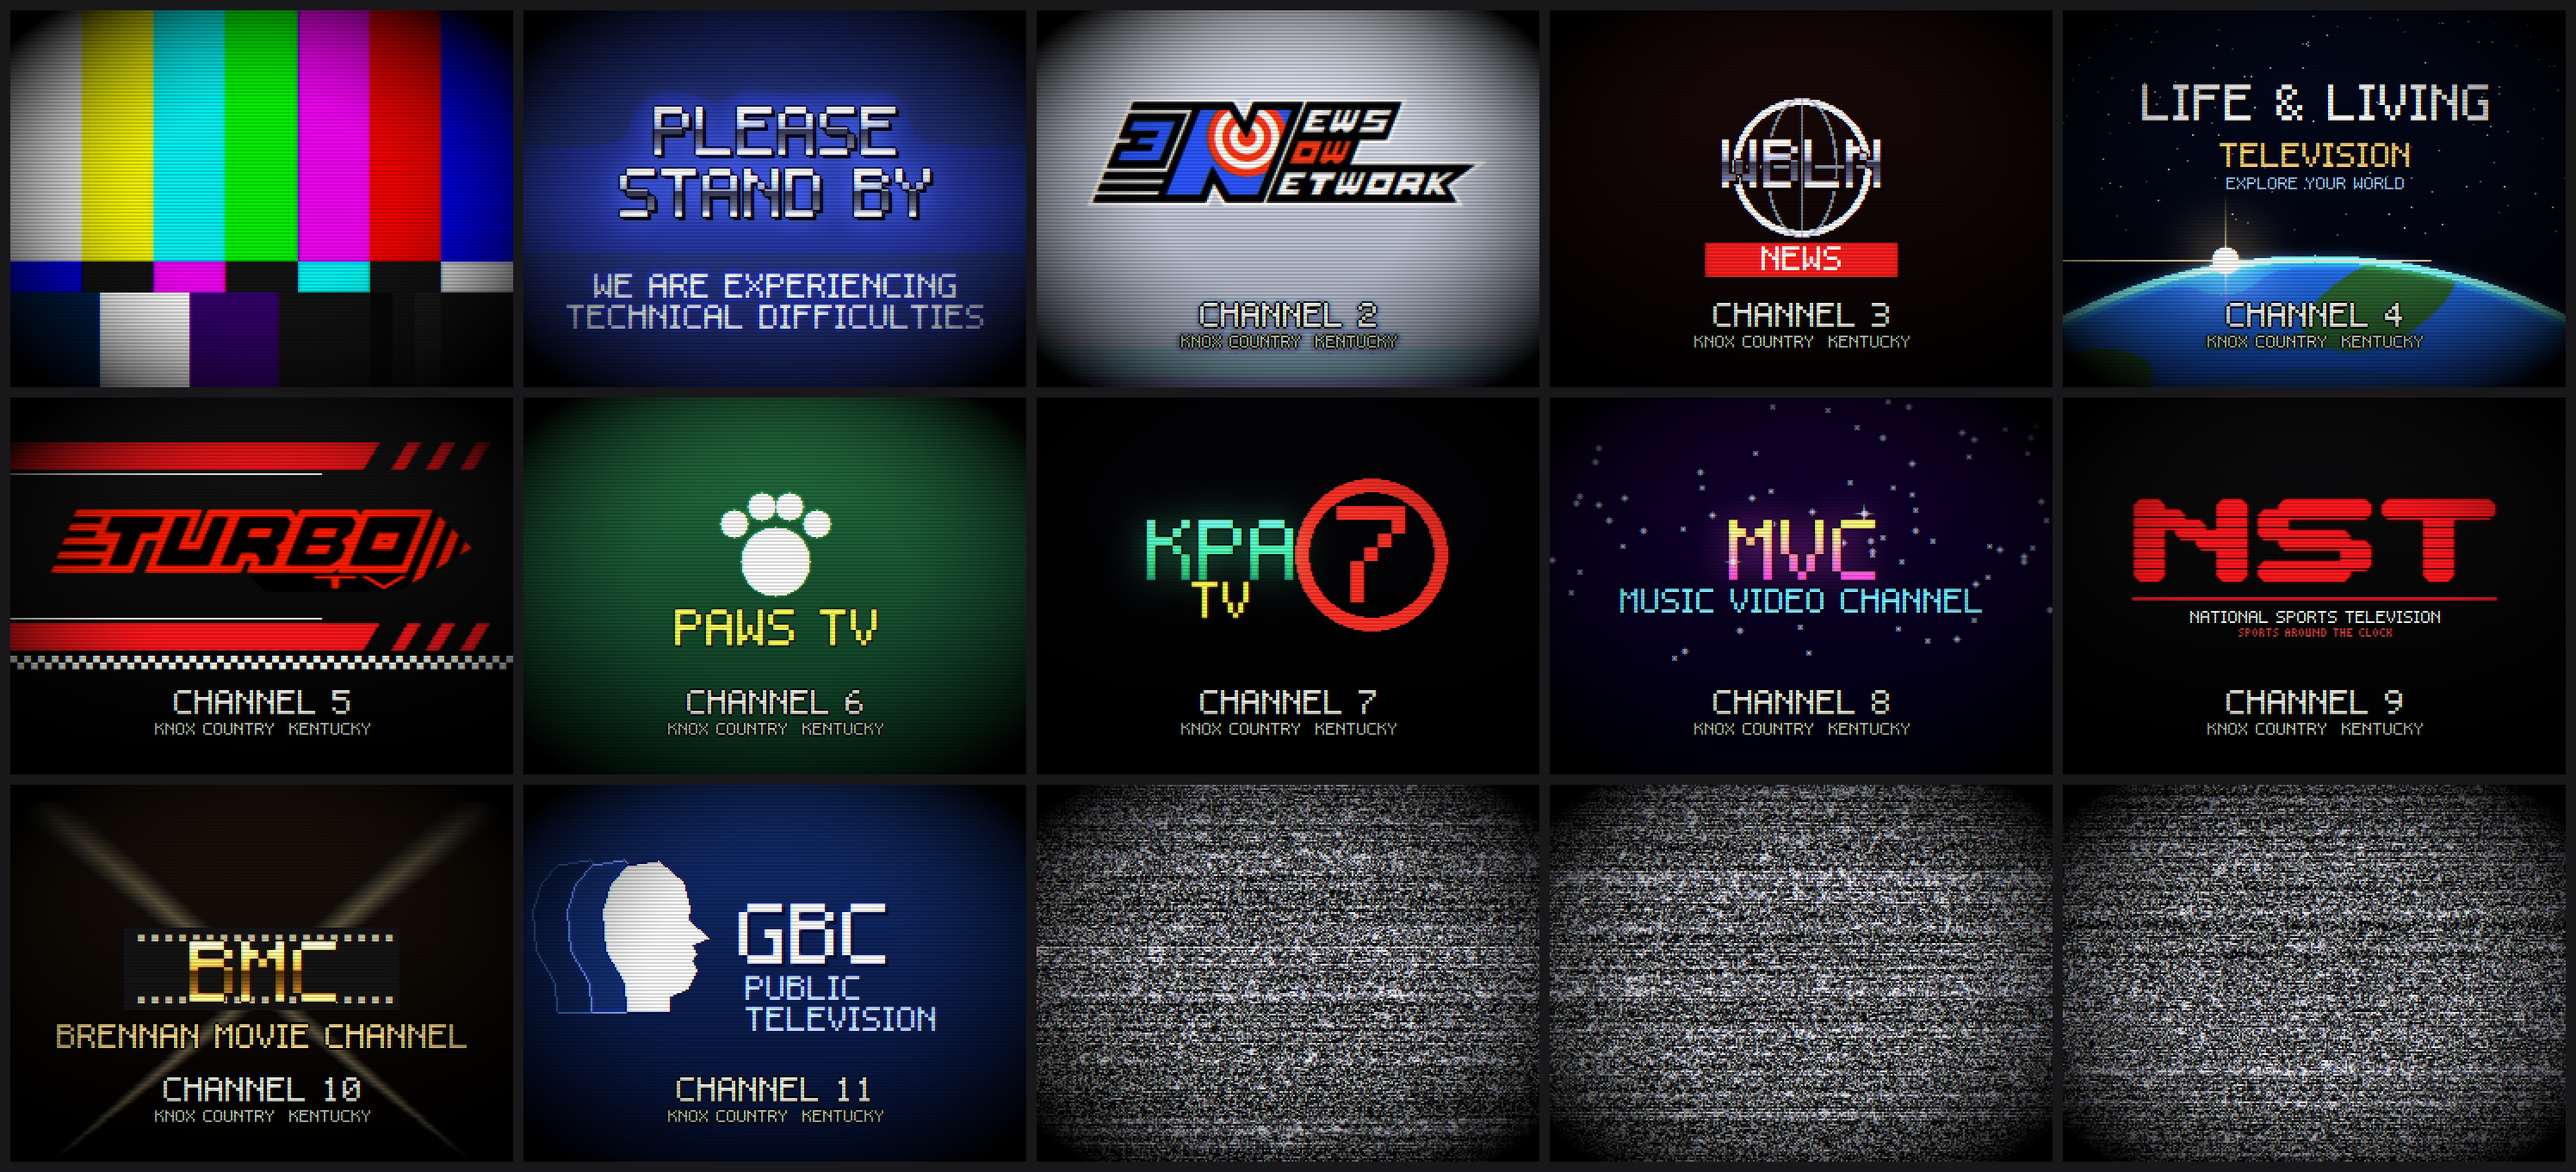
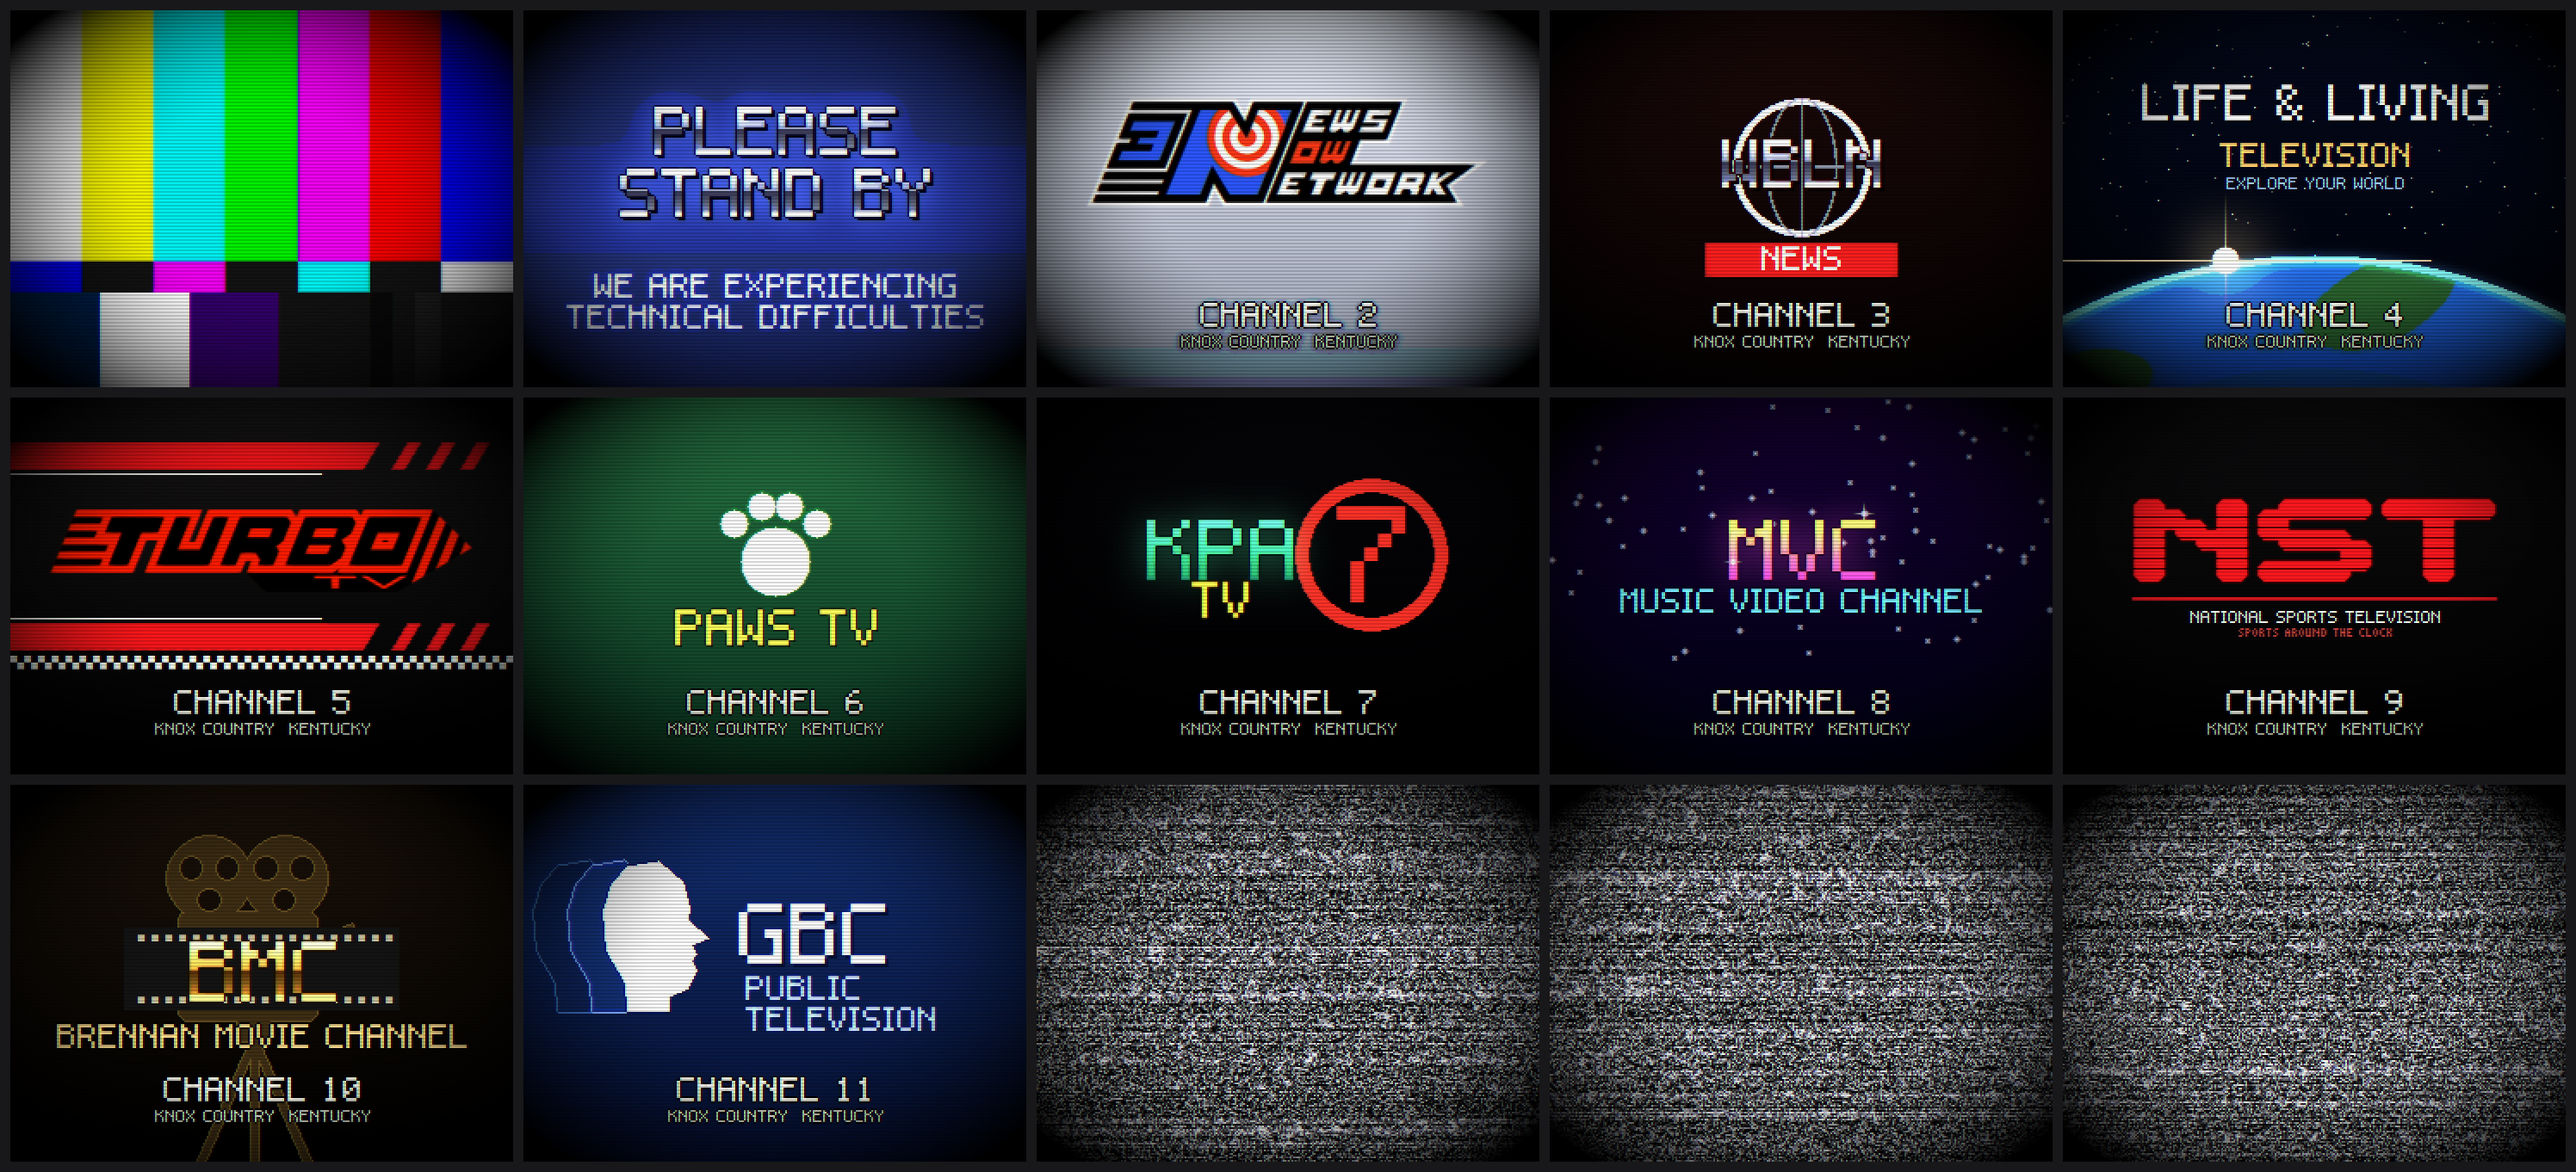
Design: Brennan Movie Channel card with an old film camera
Director: an old film camera, not crossing searchlights, behind the name. A dim gold
silhouette: two reels with their spokes, the box, the lens hood, the tripod's head
and legs; the gold BMC on its film strip in front.

Claude-Session: https://claude.ai/code/session_015Lv8fXDH1kuxg46sEw6iLh

diff --git a/ZeDUI/tools/physpx/offair.py b/ZeDUI/tools/physpx/offair.py
@@ -346,16 +346,28 @@ def signoff(cid, w, h):
         text(a, "SPORTS AROUND THE CLOCK", cx, y0 + wide.shape[0] + 4 * s + 10, 1, (200, 60, 60), font="35" if w < 330 else "57")
     elif cid == "bmc":
         a = card_frame(w, h, (30, 20, 10), (0, 0, 0))
-        for side in (-1, 1):                                                                # two searchlights crossing
-            bx0 = cx - side * int(w * 0.42); by0 = h
-            for t in np.linspace(0, 1, 400):
-                x = bx0 + (cx + side * 18 * s - bx0) * t * 1.3; y = by0 + (-by0 * 0.95) * t
-                half = 1 + int(t * 6 * s)
-                for dx in range(-half, half + 1):
-                    xi, yi = int(x + dx), int(y)
-                    if 0 <= xi < w and 0 <= yi < h:
-                        k = (1 - abs(dx) / (half + 1)) * 0.35
-                        a[yi, xi] = np.maximum(a[yi, xi], np.array((255, 230, 170), np.float32) / 255 * k)
+        # an old film camera behind the name (director, Oct 30 2026: "an old film camera not an X"): two reels on top,
+        # the box, the lens to the right, the tripod's head and legs, in a dim gold silhouette
+        cam = Image.new("L", (w, h), 0); dc = ImageDraw.Draw(cam)
+        u = h / 100.0
+        bx0, by0, bx1, by1 = cx - 22 * u, 34 * u, cx + 14 * u, 62 * u                      # the box
+        dc.rounded_rectangle([bx0, by0, bx1, by1], radius=2 * u, fill=255)
+        for (rx, rr) in ((cx - 14 * u, 11 * u), (cx + 6 * u, 11 * u)):                        # the two reels
+            dc.ellipse([rx - rr, by0 - 2 * rr + 2 * u, rx + rr, by0 + 2 * u], fill=255)
+        dc.polygon([(bx1, by0 + 7 * u), (bx1 + 10 * u, by0 + 3 * u), (bx1 + 10 * u, by1 - 3 * u), (bx1, by1 - 7 * u)], fill=255)   # the lens hood
+        dc.rectangle([cx - 6 * u, by1, cx + 2 * u, by1 + 6 * u], fill=255)                     # the tripod head
+        for dxl in (-16, -2, 12):                                                              # the legs
+            dc.line([(cx - 2 * u, by1 + 6 * u), (cx + dxl * u, 100 * u)], fill=255, width=max(2, int(2.2 * u)))
+        holes = Image.new("L", (w, h), 0); dh_ = ImageDraw.Draw(holes)
+        for (rx, rr) in ((cx - 14 * u, 11 * u), (cx + 6 * u, 11 * u)):                        # the reels' spokes, cut out
+            for k in range(3):
+                ang = math.radians(90 + k * 120)
+                hx_, hy_ = rx + math.cos(ang) * rr * 0.5, by0 - rr + 2 * u + math.sin(ang) * rr * 0.5
+                dh_.ellipse([hx_ - rr * 0.28, hy_ - rr * 0.28, hx_ + rr * 0.28, hy_ + rr * 0.28], fill=255)
+        cm = (np.asarray(cam) > 127) & ~(np.asarray(holes) > 127)
+        a[cm] = np.array((62, 46, 20), np.float32) / 255
+        edge = grow(cm, 1) & ~cm
+        a[edge] = np.array((110, 84, 36), np.float32) / 255
         rect(a, cx - 20 * s, cy - 2 * s, 40 * s, 12 * s, (20, 20, 20))                      # a film strip under the name
         for k in range(-9, 10):
             rect(a, cx + k * 2 * s, cy - s, s, s, (200, 190, 160)); rect(a, cx + k * 2 * s, cy + 8 * s, s, s, (200, 190, 160))
